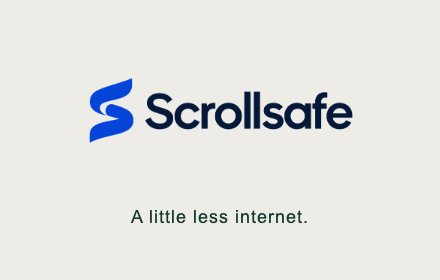
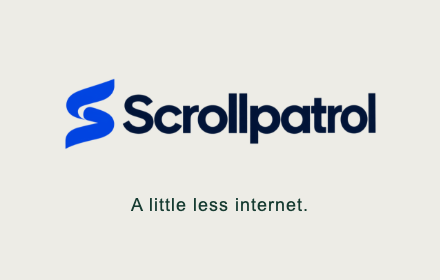
Unify extension and store branding as Scrollpatrol

Changed region(s): [[0.1477, 0.2857, 0.8568, 0.5429], [0.2955, 0.7143, 0.7091, 0.8]]

diff --git a/src/video.ts b/src/video.ts
@@ -61,8 +61,8 @@ export function videoUrl(el:HTMLElement,site:Site){
 export function coverVideo(el:HTMLElement,rule:string,onReveal:()=>void):()=>void{
   const position=el.style.getPropertyValue('position'),priority=el.style.getPropertyPriority('position');
   if(getComputedStyle(el).position==='static')el.style.setProperty('position','relative','important');
-  el.setAttribute('data-scrollsafe-video-muted','');
-  const cover=document.createElement('div');cover.setAttribute('data-scrollsafe-cover','');
+  el.setAttribute('data-scrollpatrol-video-muted','');
+  const cover=document.createElement('div');cover.setAttribute('data-scrollpatrol-cover','');
   cover.style.cssText='position:absolute!important;inset:0!important;z-index:2147483647!important;visibility:visible!important;display:block!important;background:#111827!important;';
   const shadow=cover.attachShadow({mode:'open'}),box=document.createElement('div');
   box.style.cssText='box-sizing:border-box;height:100%;display:flex;flex-direction:column;align-items:center;justify-content:center;gap:18px;padding:24px;color:#f8fafc;font:15px system-ui;text-align:center;background:#111827;';
@@ -73,7 +73,7 @@ export function coverVideo(el:HTMLElement,rule:string,onReveal:()=>void):()=>voi
   const muted=new Map<HTMLMediaElement,boolean>();
   const stop=()=>{for(const media of el.querySelectorAll<HTMLMediaElement>('video,audio')){if(!muted.has(media))muted.set(media,media.muted);if(!media.muted)media.muted=true;media.pause();}};
   el.addEventListener('play',stop,true);el.addEventListener('volumechange',stop,true);stop();
-  const restore=()=>{el.removeEventListener('play',stop,true);el.removeEventListener('volumechange',stop,true);for(const [media,value] of muted)media.muted=value;el.removeAttribute('data-scrollsafe-video-muted');cover.remove();if(position)el.style.setProperty('position',position,priority);else el.style.removeProperty('position');};
+  const restore=()=>{el.removeEventListener('play',stop,true);el.removeEventListener('volumechange',stop,true);for(const [media,value] of muted)media.muted=value;el.removeAttribute('data-scrollpatrol-video-muted');cover.remove();if(position)el.style.setProperty('position',position,priority);else el.style.removeProperty('position');};
   button.onclick=e=>{e.stopPropagation();onReveal();};
   return restore;
 }

diff --git a/src/background.ts b/src/background.ts
@@ -30,7 +30,7 @@ chrome.runtime.onMessage.addListener((msg,sender,reply)=>{
         const connection={ok:true,checkedAt:Date.now(),latencyMs:Date.now()-started};
         await chrome.storage.local.set({connection});await chrome.storage.local.remove('lastError');backoffUntil=0;reply(connection);
       }catch(e){const error=errorText(e);if((await chrome.storage.local.get('apiKey')).apiKey===apiKey)await chrome.storage.local.set({connection:{ok:false,checkedAt:Date.now(),error}});reply({ok:false,error});}
-    })().catch(()=>reply({ok:false,error:'Could not read or save extension settings. Reload Scrollsafe and try again.'}));return true;
+    })().catch(()=>reply({ok:false,error:'Could not read or save extension settings. Reload Scrollpatrol and try again.'}));return true;
   }
   if(msg?.type==='recordHidden'){
     const job=historyChain.then(async()=>{
@@ -55,7 +55,7 @@ chrome.runtime.onMessage.addListener((msg,sender,reply)=>{
     const config=normalize(settings);
     if(!config.deeper)delete post.visual;
     if(!config.enabled||!config.sites[site]||!config.rules.length) return {muted:false,skipped:!config.enabled?'Filtering is paused.':!config.sites[site]?'Filtering is disabled for this site.':'No mute rules configured.'};
-    if(typeof apiKey!=='string'||!apiKey) throw new Error('Add your Jev API key in Scrollsafe.');
+    if(typeof apiKey!=='string'||!apiKey) throw new Error('Add your Jev API key in Scrollpatrol.');
     const key=JSON.stringify([post,config.rules,config.threshold,config.deeper]);
     if(cache.has(key)) return cache.get(key);
     if(Date.now()<backoffUntil) throw new Error('API paused after an error. Try again shortly.');

diff --git a/src/content.ts b/src/content.ts
@@ -100,7 +100,7 @@ async function scan(){
     try{result=await chrome.runtime.sendMessage({type:'classify',post});}
     catch{seen.delete(el);throw new Error('Feed script lost its extension connection. Refresh this page.');}
     if(current!==generation||currentPath!==location.pathname){seen.delete(el);schedule();break;}
-    if(!result){seen.delete(el);throw new Error('No response from extension. Reload Scrollsafe and refresh this page.');}
+    if(!result){seen.delete(el);throw new Error('No response from extension. Reload Scrollpatrol and refresh this page.');}
     lastError=result.error||'';
     if(!result.error&&!result.skipped)checked++;
     applyResult(el,post,result,identity,current);
@@ -123,7 +123,7 @@ chrome.runtime.onMessage.addListener((message,_sender,reply)=>{
 schedule();
 
 if(videoSite(site)){
-  const style=document.createElement('style');style.textContent='[data-scrollsafe-video-muted] > :not([data-scrollsafe-cover]){visibility:hidden!important}';document.head.append(style);
+  const style=document.createElement('style');style.textContent='[data-scrollpatrol-video-muted] > :not([data-scrollpatrol-cover]){visibility:hidden!important}';document.head.append(style);
   addEventListener('loadeddata',schedule,true);
   setInterval(()=>{if(document.visibilityState!=='hidden')schedule();},5000);
   let lastPath=location.pathname;setInterval(()=>{if(location.pathname!==lastPath){lastPath=location.pathname;generation++;for(const restore of [...hidden.values()])restore();seen=new WeakMap();revealed=new WeakMap();waitingVisual.clear();deepDone=new WeakMap();schedule();}},1000);

diff --git a/public/popup.html b/public/popup.html
@@ -1,5 +1,5 @@
-<!doctype html><html lang="en"><head><meta charset="utf-8"><meta name="viewport" content="width=device-width,initial-scale=1"><title>Scrollsafe</title><link rel="stylesheet" href="popup.css"></head><body>
-<header><div class="brand"><h1><img class="wordmark" src="brand/scrollsafe-wordmark.png" alt="Scrollsafe"></h1><p>A little less internet.</p></div><label class="power"><input id="enabled" type="checkbox"> On</label></header>
+<!doctype html><html lang="en"><head><meta charset="utf-8"><meta name="viewport" content="width=device-width,initial-scale=1"><title>Scrollpatrol</title><link rel="stylesheet" href="popup.css"></head><body>
+<header><div class="brand"><h1><img class="wordmark" src="brand/scrollpatrol-wordmark.png" alt="Scrollpatrol"></h1><p>A little less internet.</p></div><label class="power"><input id="enabled" type="checkbox"> On</label></header>
 <main><h2>What are you tired<br>of seeing?</h2><p>Describe it. We’ll turn matching posts down.</p>
 <form id="rule-form"><label class="sr-only" for="rule">New mute rule</label><textarea id="rule" maxlength="200" rows="2" placeholder="Fundraising announcements with no product details…" required></textarea><button class="primary" type="submit">+ Add mute rule</button></form>
 <div class="examples"><button data-rule="Engagement bait asking people to comment a word to receive a resource">Comment-for-link bait</button><button data-rule="Startup fundraising announcements">Funding announcements</button></div>

diff --git a/src/popup.ts b/src/popup.ts
@@ -71,14 +71,14 @@ async function testConnection(){
     }else{connectionStatus(result?.error||'No response from the extension. Reload it at chrome://extensions and try again.','error');}
   }catch(e){
     const detail=e instanceof Error?e.message:'';
-    connectionStatus(/timed out/.test(detail)?detail:'Could not save or check the key. Reload Scrollsafe at chrome://extensions and try again.','error');
+    connectionStatus(/timed out/.test(detail)?detail:'Could not save or check the key. Reload Scrollpatrol at chrome://extensions and try again.','error');
   }finally{
     if(timer)clearTimeout(timer);
     checking=false;button.disabled=false;remove.disabled=false;key.disabled=false;button.textContent='Save & test';
     $('connection-status').scrollIntoView({block:'nearest'});
   }
 }
-void init().catch(()=>{connectionStatus('Setup failed to load. Reload Scrollsafe at chrome://extensions and reopen this popup.','error');$<HTMLDetailsElement>('setup').open=true;});
+void init().catch(()=>{connectionStatus('Setup failed to load. Reload Scrollpatrol at chrome://extensions and reopen this popup.','error');$<HTMLDetailsElement>('setup').open=true;});
 
 async function checkFeed(){
   const button=$<HTMLButtonElement>('check-feed');button.disabled=true;

diff --git a/README.md b/README.md
@@ -1,6 +1,6 @@
-# Scrollsafe
+# Scrollpatrol
 
-![Scrollsafe](public/brand/scrollsafe-wordmark.png)
+![Scrollpatrol](public/brand/scrollpatrol-wordmark.png)
 
 **A little less internet.** An open-source Chrome extension that mutes posts by meaning, with Jev.
 
@@ -10,14 +10,14 @@ Describe what you don't want to see: “engagement bait asking me to comment for
 
 1. Install Node.js 22+ and run `npm ci && npm run build`.
 2. Open `chrome://extensions`, enable **Developer mode**, select **Load unpacked**, and choose `dist/`.
-3. Open Scrollsafe from the extensions menu. Add your own [TypeSafe API key](https://console.typesafe.ai) and one or more mute rules. **Save & test** makes a small Jev request and reports whether a valid response came back, with latency and the check time.
+3. Open Scrollpatrol from the extensions menu. Add your own [TypeSafe API key](https://console.typesafe.ai) and one or more mute rules. **Save & test** makes a small Jev request and reports whether a valid response came back, with latency and the check time.
 4. Open or reload a supported feed. The popup lets you pause filtering, disable individual sites, and adjust the match threshold.
 
 The source is free and MIT licensed. Jev is a hosted API, not an included local model; your API usage is billed by TypeSafe. This is an unpacked alpha, not a Chrome Web Store release.
 
 ## Preview
 
-![Scrollsafe popup](popup-preview.png)
+![Scrollpatrol popup](popup-preview.png)
 
 ## What the filter knows
 
@@ -48,11 +48,11 @@ Comments, private messages, continuous video/audio analysis and full linked arti
 
 ## Deeper video filtering
 
-Available subtitles are included automatically: loaded native caption/subtitle tracks, plus YouTube subtitles rendered inside the player. Scrollsafe does not enable captions, download hidden transcript tracks, or record/transcribe audio. Subtitles may be partial or unavailable, especially when burned into the video. Rendered captions accumulate per video, up to 4,000 characters, with rechecks at most once every five seconds.
+Available subtitles are included automatically: loaded native caption/subtitle tracks, plus YouTube subtitles rendered inside the player. Scrollpatrol does not enable captions, download hidden transcript tracks, or record/transcribe audio. Subtitles may be partial or unavailable, especially when burned into the video. Rendered captions accumulate per video, up to 4,000 characters, with rechecks at most once every five seconds.
 
 To enable visual evidence, open **Deeper video filtering**, add a [Google AI Studio key](https://aistudio.google.com/apikey), and click **Save & test image access**. The test sends a generated image and verifies the response format, not real-world model accuracy. Then enable **Analyze frames when needed**. This remains off by default and requires the existing Jev key and rules for feed filtering.
 
-Jev first checks metadata/subtitles and assesses whether visual evidence would help. If needed, Scrollsafe samples up to two frames, 900 ms apart during normal playback, without seeking or recording audio. Only visible, decoded videos are sampled. Images are resized to at most 384 pixels per side and sent to Gemini 2.5 Flash-Lite for a description and readable on-screen text. The description is passed to Jev for the final rule decision. Cross-origin/protected players can block capture: those stay on metadata filtering, with the reason shown in **Feed diagnostics**. There is no whole-page screenshot fallback.
+Jev first checks metadata/subtitles and assesses whether visual evidence would help. If needed, Scrollpatrol samples up to two frames, 900 ms apart during normal playback, without seeking or recording audio. Only visible, decoded videos are sampled. Images are resized to at most 384 pixels per side and sent to Gemini 2.5 Flash-Lite for a description and readable on-screen text. The description is passed to Jev for the final rule decision. Cross-origin/protected players can block capture: those stay on metadata filtering, with the reason shown in **Feed diagnostics**. There is no whole-page screenshot fallback.
 
 Descriptions are cached locally for seven days, up to 200 videos. Original frames are never persisted. Stable video links allow reuse across reloads; when a link is unavailable, cache identity uses the current media source and metadata, so reloading may require new analysis. Settings changes recheck cached evidence against the current rules.
 
@@ -86,10 +86,10 @@ API contract: [TypeSafe API reference](https://docs.typesafe.ai/api).
 
 ## Chrome Web Store preparation
 
-Run `npm run package` to build `release/scrollsafe-0.1.0.zip`, with the manifest at the ZIP root. Store listing copy, permission disclosures, reviewer instructions, and the upload checklist are in [store/LISTING.md](store/LISTING.md). The store release has not yet been submitted. Live provider accuracy still needs evaluation.
+Run `npm run package` to build `release/scrollpatrol-0.1.0.zip`, with the manifest at the ZIP root. Store listing copy, permission disclosures, reviewer instructions, and the upload checklist are in [store/LISTING.md](store/LISTING.md). The store release has not yet been submitted. Live provider accuracy still needs evaluation.
 
 [Privacy policy](PRIVACY.md) · [Report an issue](https://github.com/ennsharma/scrollpatrol/issues)
 
 ## Brand assets
 
-Approved wordmark and square icon originals live in `public/brand/`. Chrome uses 16, 32, 48, and 128 pixel PNG versions in `public/icons/`. The repository remains `ennsharma/scrollpatrol`; the extension display name is Scrollsafe.
+Approved wordmark and square icon originals live in `public/brand/`. Chrome uses 16, 32, 48, and 128 pixel PNG versions in `public/icons/`. The repository remains `ennsharma/scrollpatrol`; the extension display name is Scrollpatrol.

diff --git a/PRIVACY.md b/PRIVACY.md
@@ -1,12 +1,12 @@
-# Scrollsafe privacy policy
+# Scrollpatrol privacy policy
 
-Effective September 21, 2026. Scrollsafe is an open-source browser extension maintained by Nikhil Sharma.
+Effective September 21, 2026. Scrollpatrol is an open-source browser extension maintained by Nikhil Sharma.
 
 ## Purpose and data processing
 
-Scrollsafe filters supported social feeds according to rules you enter. When you configure a TypeSafe API key and rules and leave filtering enabled, it sends nearby feed post text, available author names/usernames, community names, visible metadata, loaded subtitles, and your rules to TypeSafe (`api.typesafe.ai`) for classification. Feed content can contain personal or sensitive information. The extension does not access private messages, visit profiles, or fetch linked articles.
+Scrollpatrol filters supported social feeds according to rules you enter. When you configure a TypeSafe API key and rules and leave filtering enabled, it sends nearby feed post text, available author names/usernames, community names, visible metadata, loaded subtitles, and your rules to TypeSafe (`api.typesafe.ai`) for classification. Feed content can contain personal or sensitive information. The extension does not access private messages, visit profiles, or fetch linked articles.
 
-If you separately enable optional deeper video filtering, up to two resized video frames are sent to Google's Gemini API (`generativelanguage.googleapis.com`) for a description and on-screen text. That description is sent to TypeSafe for rule matching. This feature is off by default. Scrollsafe does not record audio, access your microphone, or capture whole-page screenshots. Connection tests send a generated sample post or image to the selected provider.
+If you separately enable optional deeper video filtering, up to two resized video frames are sent to Google's Gemini API (`generativelanguage.googleapis.com`) for a description and on-screen text. That description is sent to TypeSafe for rule matching. This feature is off by default. Scrollpatrol does not record audio, access your microphone, or capture whole-page screenshots. Connection tests send a generated sample post or image to the selected provider.
 
 Your API key authenticates requests directly to its respective provider over HTTPS. Keys are stored locally in Chrome, not Chrome Sync, and are restricted to trusted extension contexts. They are not sent to the maintainer. Provider usage is charged to your provider account. Provider processing, retention, and use depend on their applicable terms and account configuration; consult [TypeSafe](https://typesafe.ai) and [Google's Gemini API terms](https://ai.google.dev/gemini-api/terms) before enabling processing of feed content.
 
@@ -18,7 +18,7 @@ You can remove keys, clear muted history and frame descriptions, disable individ
 
 ## Sharing and use
 
-Scrollsafe has no maintainer-operated processing backend, analytics, advertising, or sale of user data. Data is processed only to provide the filtering and connection-check features described here. It is not used by the extension for advertising, creditworthiness, or unrelated profiling. Scrollsafe does not collect general browsing history, cookies, or private messages. Post links are retained locally for revealing the source of a mute. Network providers may receive standard connection information, such as your IP address.
+Scrollpatrol has no maintainer-operated processing backend, analytics, advertising, or sale of user data. Data is processed only to provide the filtering and connection-check features described here. It is not used by the extension for advertising, creditworthiness, or unrelated profiling. Scrollpatrol does not collect general browsing history, cookies, or private messages. Post links are retained locally for revealing the source of a mute. Network providers may receive standard connection information, such as your IP address.
 
 ## Contact and updates
 

diff --git a/store/LISTING.md b/store/LISTING.md
@@ -4,7 +4,7 @@ Status: prepared locally; not uploaded or submitted for review.
 
 ## Listing fields
 
-Name: Scrollsafe — Semantic mute
+Name: Scrollpatrol — Semantic mute
 
 Summary: Mute posts and short videos by meaning using their text and creator details.
 
@@ -22,7 +22,7 @@ Privacy policy: https://github.com/ennsharma/scrollpatrol/blob/main/PRIVACY.md
 
 A little less internet.
 
-Scrollsafe lets you describe what you're tired of seeing, then collapses matching feed posts. Try “engagement bait asking me to comment for a link” or “startup fundraising announcements.” Reveal anything with Show post, pause filtering, or turn individual sites off.
+Scrollpatrol lets you describe what you're tired of seeing, then collapses matching feed posts. Try “engagement bait asking me to comment for a link” or “startup fundraising announcements.” Reveal anything with Show post, pause filtering, or turn individual sites off.
 
 • Filter by meaning, including available author and community details.
 • Supports LinkedIn feeds, Reddit, and Hacker News.
@@ -67,7 +67,7 @@ Do not select “does not collect or use user data.” Data sent directly to AI 
 
 ## Upload checklist
 
-- Upload release/scrollsafe-0.1.0.zip (manifest at ZIP root).
+- Upload release/scrollpatrol-0.1.0.zip (manifest at ZIP root).
 - Icon: public/icons/icon-128.png.
 - Screenshot: store/assets/screenshot-1280x800.png.
 - Small promotional image: store/assets/promo-440x280.png.
